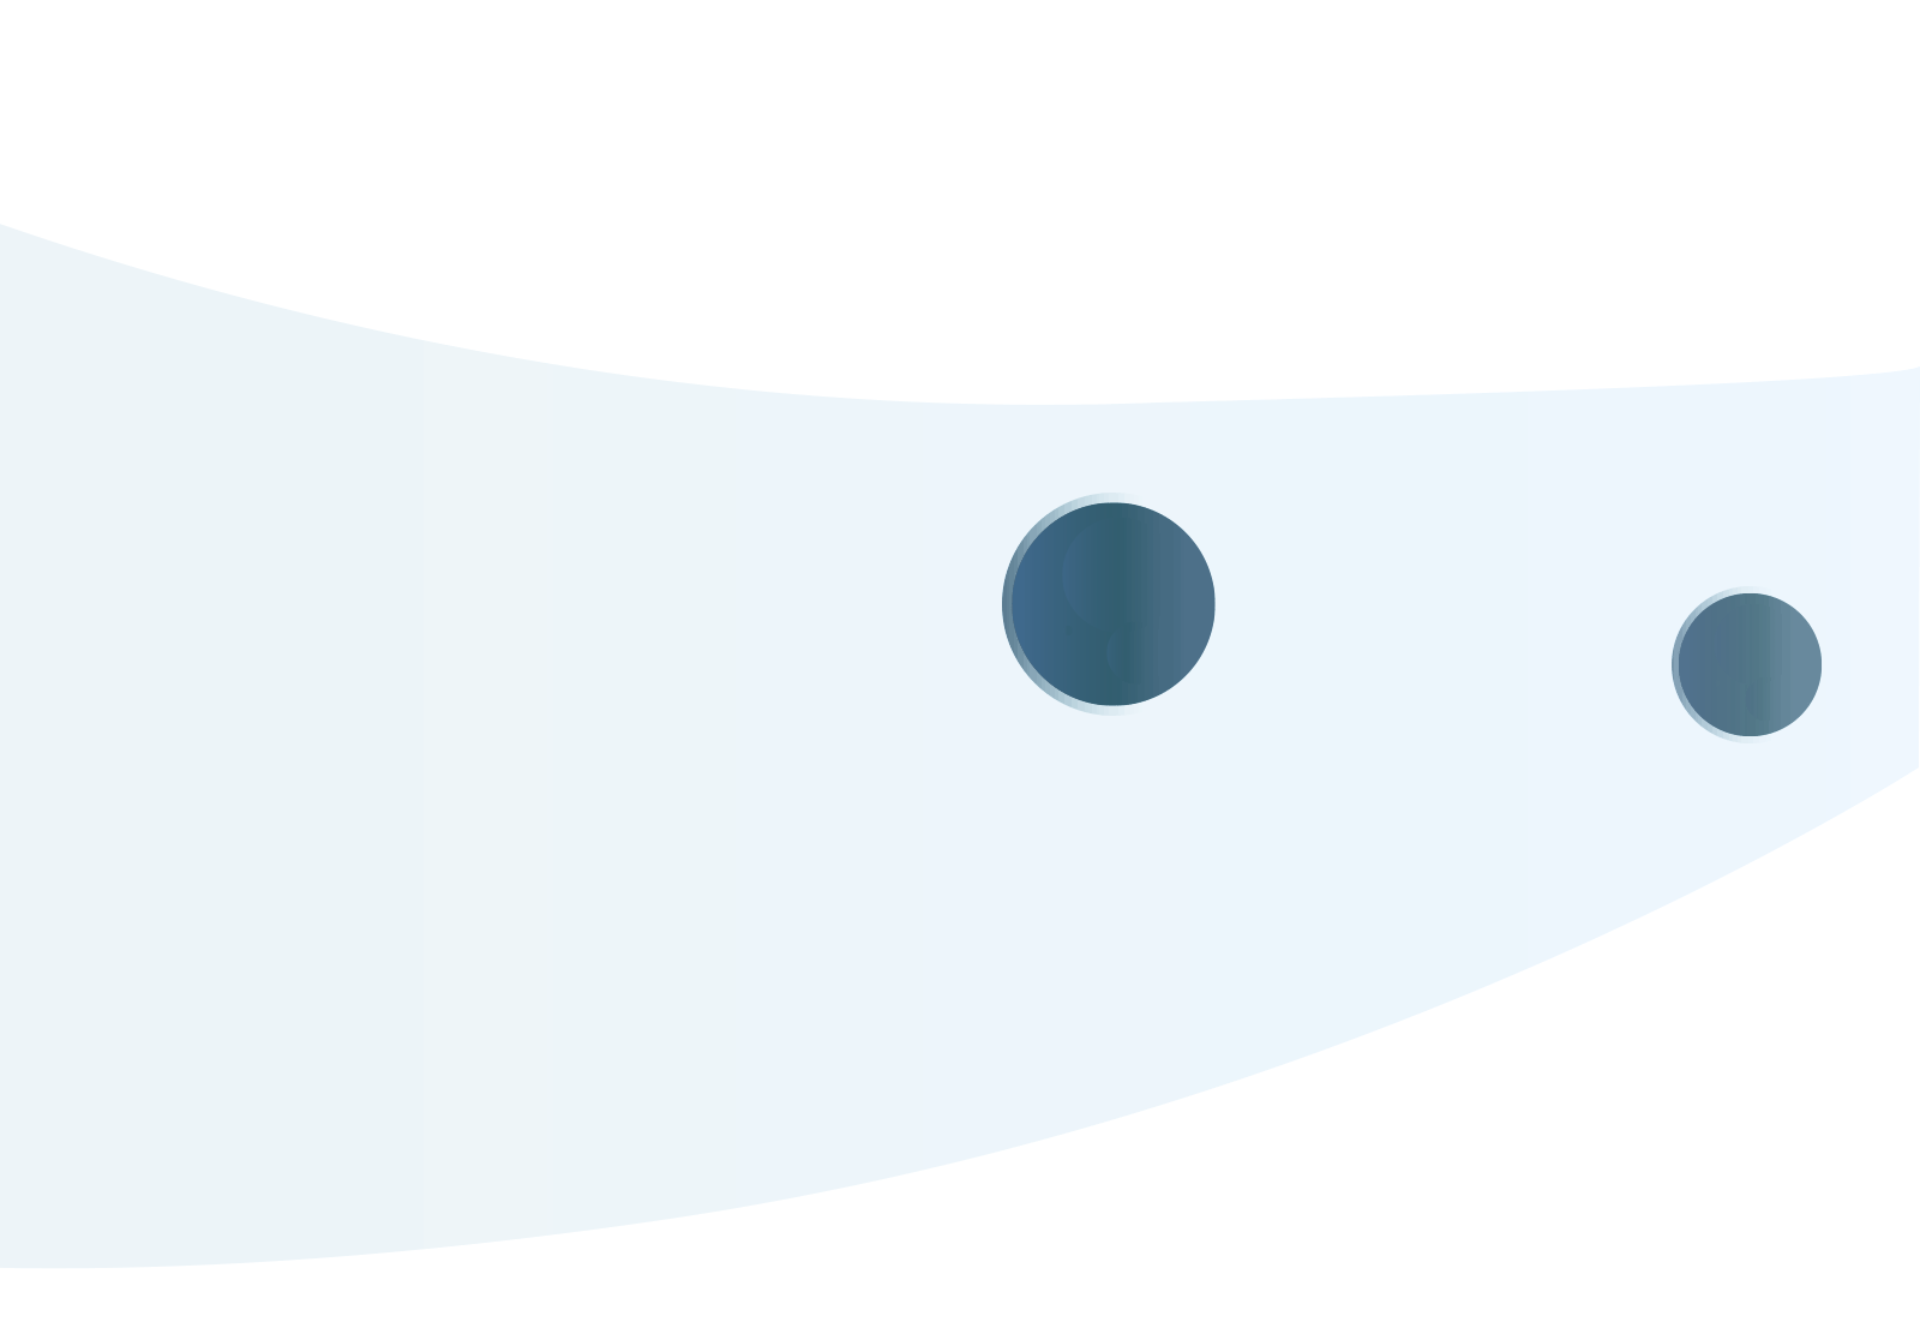
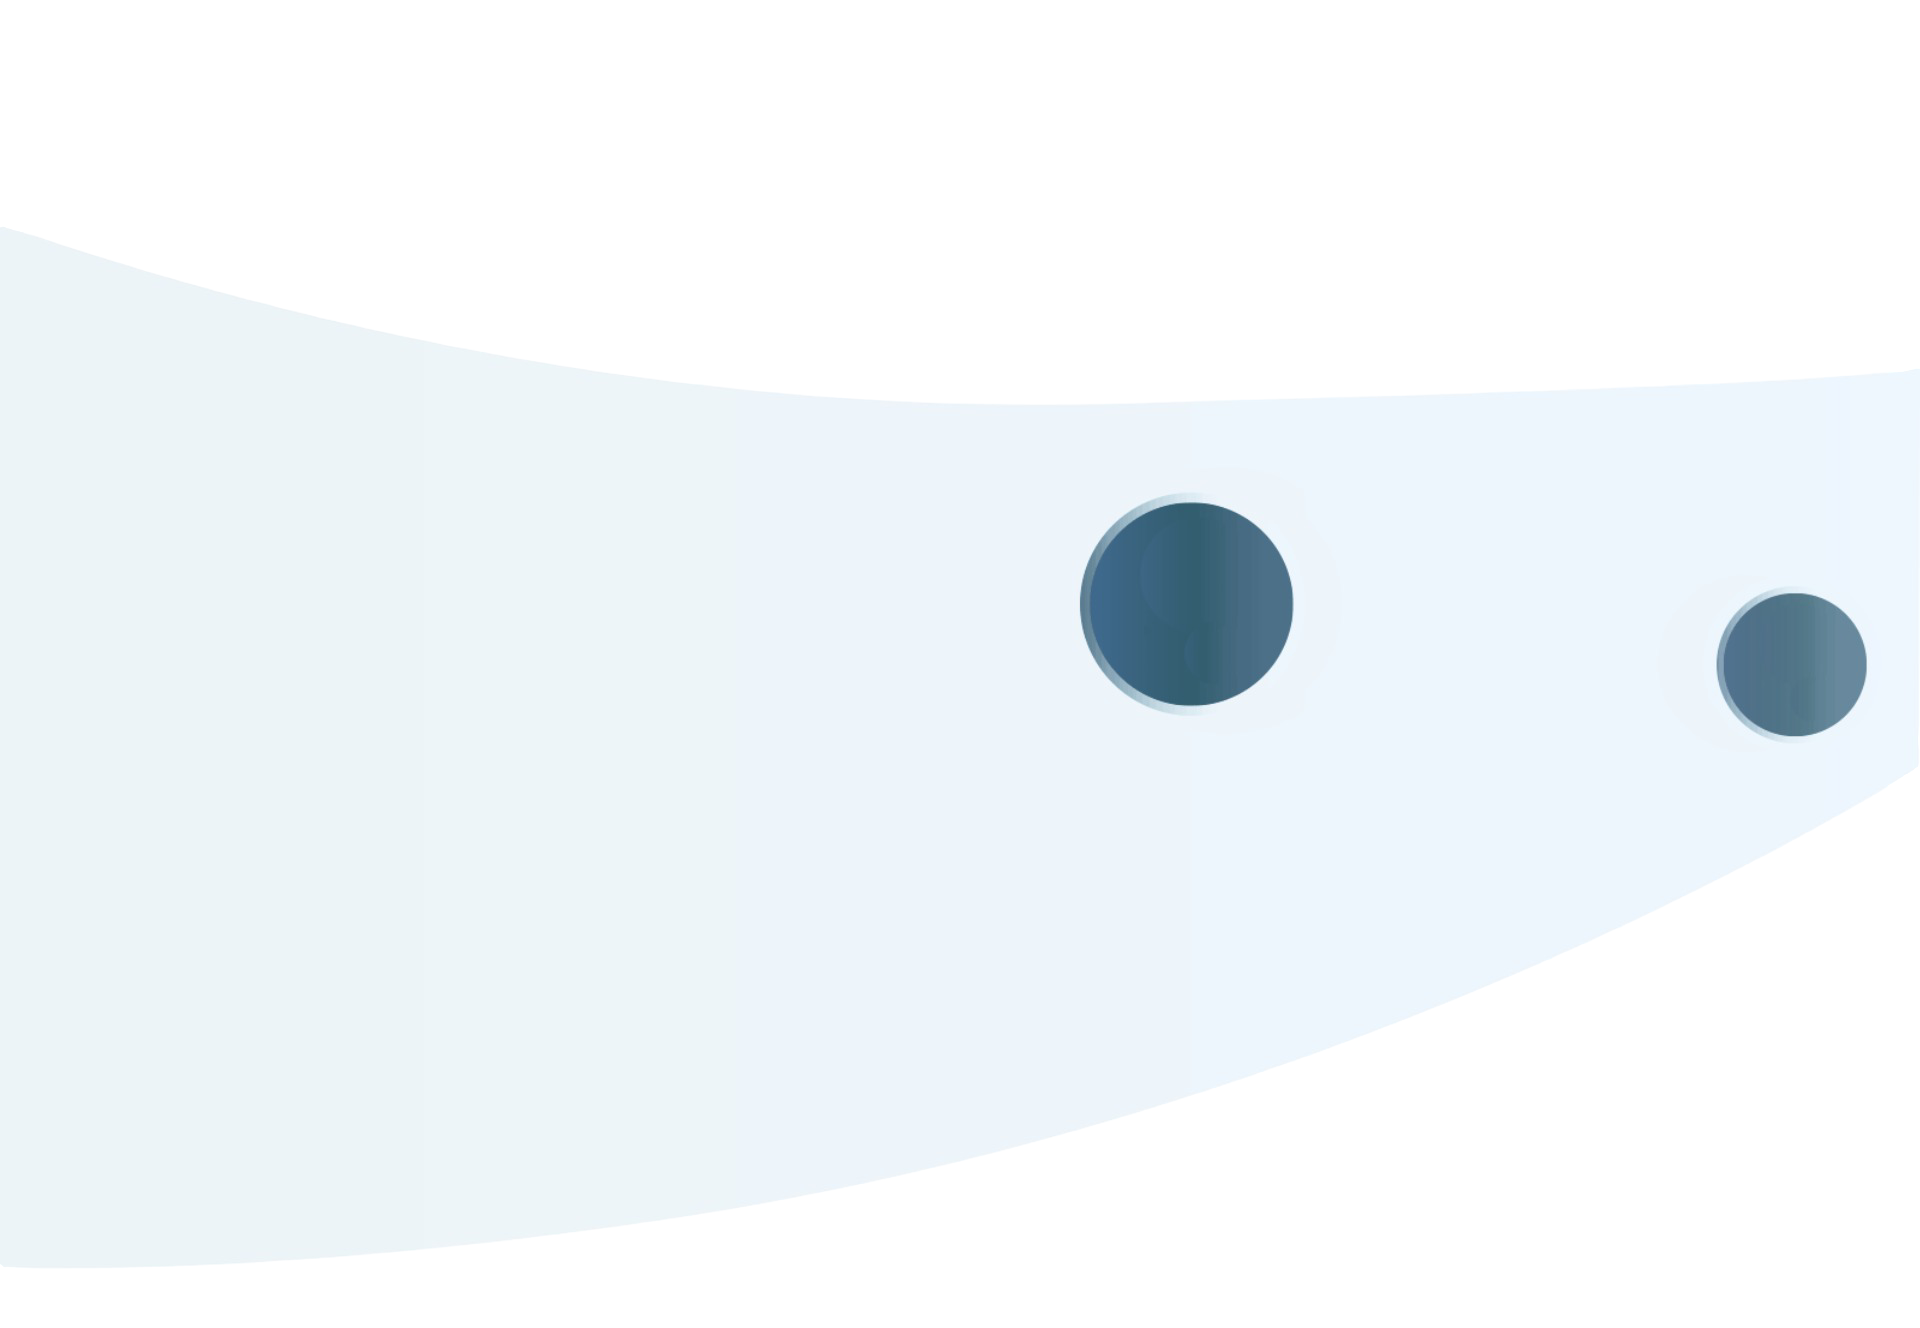
carousel bug fixes

Changed region(s): [[0.5, 0.3705, 0.6875, 0.5557], [0.8438, 0.4322, 0.9688, 0.5557]]

diff --git a/assets/js/custom.js b/assets/js/custom.js
@@ -63,29 +63,33 @@
         var $owlFeatures = $(".awesome-feat-carousel"),
             $featureLinks = $(".feature-link");
         $owlFeatures.owlCarousel({
-                loop: !0,
-                responsiveClass: !0,
-                margin: 30,
-                nav: true,
-                dots: !1,
-                navText: ['<i class="icon-left-arrow"></i>', '<i class="icon-arrow-pointing-to-right"></i>'],
-                responsive: {
-                    0: {
-                        items: 1
-                    },
-                    768: {
-                        items: 1
-                    },
-                    991: {
-                        items: 2
-                    },
-                    1200: {
-                        items: 2
-                    },
-                    1920: {
-                        items: 3
-                    }
+            loop: !0,
+            responsiveClass: !0,
+            margin: 30,
+            nav: true,
+            dots: !1,
+            navText: ['<i class="icon-left-arrow"></i>', '<i class="icon-arrow-pointing-to-right"></i>'],
+            responsive: {
+                0: {
+                    items: 1
+                },
+                768: {
+                    items: 1
+                },
+                991: {
+                    items: 2
+                },
+                1200: {
+                    items: 2
+                },
+                1920: {
+                    items: 3
                 }
+            }
+        }),
+            $owlFeatures.on("initialized.owl.carousel refreshed.owl.carousel resized.owl.carousel changed.owl.carousel", function () {
+                if ($(window).width() < 1920) return;
+                $owlFeatures.find(".owl-nav, .owl-nav .owl-prev, .owl-nav .owl-next").removeClass("disabled");
             }),
             $owlFeatures.on("changed.owl.carousel", function (e) {
                 var o = e.item.index + 1 - e.relatedTarget._clones.length / 2,

diff --git a/assets/css/style.css b/assets/css/style.css
@@ -1100,7 +1100,7 @@ p {
     padding: 140px 0 126px;
     background-repeat: no-repeat;
     background-size: cover;
-    background-position: center;
+    background-position: 0 center;
 }
 
 #about-area.bg-1 {
@@ -1675,6 +1675,20 @@ p {
 
 .awesome-feat-carousel.owl-carousel .owl-nav .owl-next {
     left: 75px;
+}
+
+@media (min-width: 1920px) {
+    .awesome-feat-carousel.owl-carousel .owl-nav.disabled {
+        display: block;
+    }
+
+    .awesome-feat-carousel.owl-carousel .owl-nav .owl-prev.disabled,
+    .awesome-feat-carousel.owl-carousel .owl-nav .owl-next.disabled {
+        display: block;
+        opacity: 1;
+        pointer-events: auto;
+        cursor: pointer;
+    }
 }
 
 .awesome-feat-img .feature-link {

diff --git a/index.html b/index.html
@@ -448,10 +448,6 @@
     <!--end core feature area-->
     <!--Section 3 Features-->
     <section id="about-area" class="bg-1">
-        <!-- <div class="about-area-circle" aria-hidden="true">
-            <span class="about-blob about-blob-1"></span>
-            <span class="about-blob about-blob-2"></span>
-        </div> -->
         <div class="container">
             <div class="row">
                 <!--start about content-->
